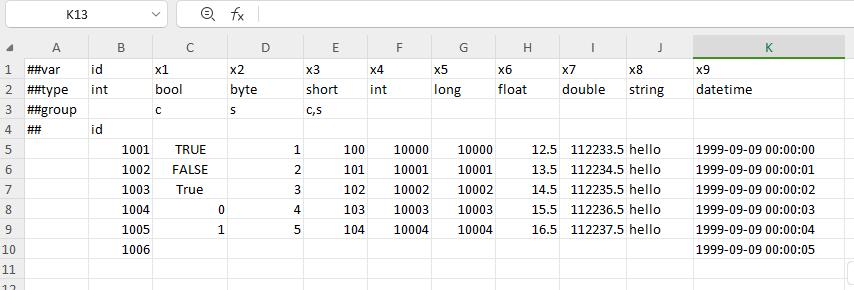
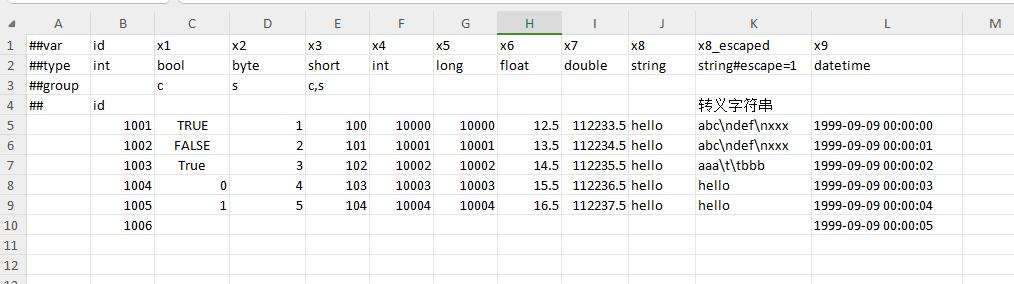
更新文档

diff --git a/docs/manual/excel.md b/docs/manual/excel.md
@@ -56,7 +56,8 @@ luban会智能猜测出它的编码，正确处理。
 特殊说明：
 
 - bool： `true、false、0、1、是、否` 都是有效值。另外大小写不敏感，如True也是合法bool值。填其他值如abc、4则会发生解析错误
-- string：单元格留空即为长度为0的字符串。但读取流式格式时，空白单元格也会被当作无用单元格而被忽略，此时可以用`''`表示长度为0的字符串。
+- string：单元格留空即为长度为0的字符串。但读取流式格式时，空白单元格也会被当作无用单元格而被忽略，此时可以用`''`表示长度为0的字符串。string默认不处理转义，
+如果希望将字符串中`\n`替换为换行符，则需要添加上`escape=1`tag，如`string#escape=1`。
 - datetime支持以下几种格式
   - excel中的内置日期格式
   - yyyy-mm-dd hh:mm:ss 字符串格式

diff --git a/docs/manual/migrate.md b/docs/manual/migrate.md
@@ -10,7 +10,7 @@
 
 ## excel格式调整
 
-excel A1单元必须以`##var`开头，而旧版本可以以`##`开头。
+excel A1单元以`##`开头则第一行会被当作注释行，而旧版本则被兼容当作是字段名定义行。
 
 ## 命令行参数调整
 
